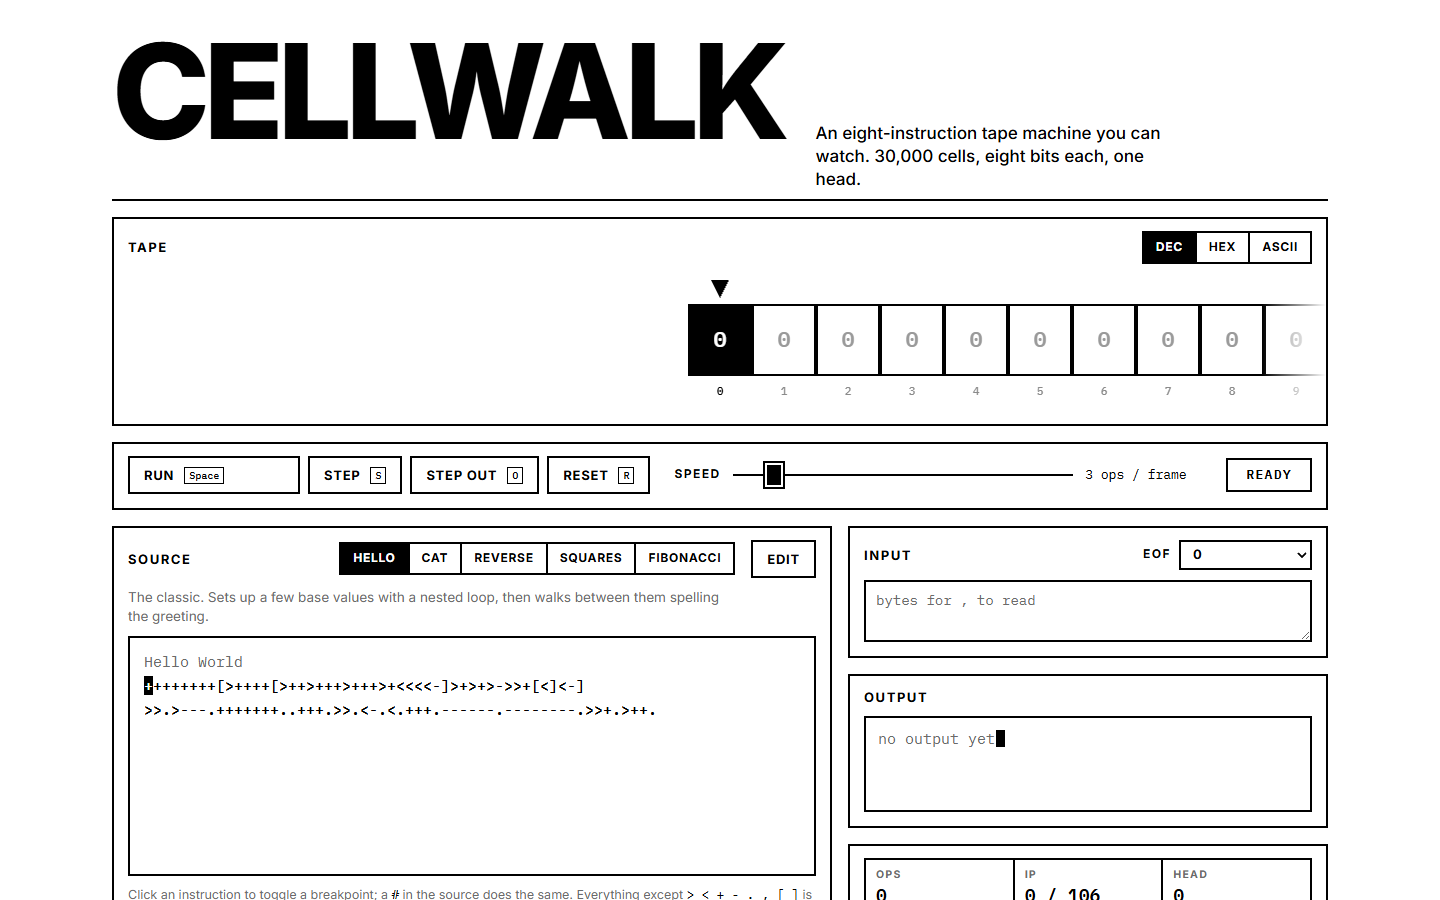
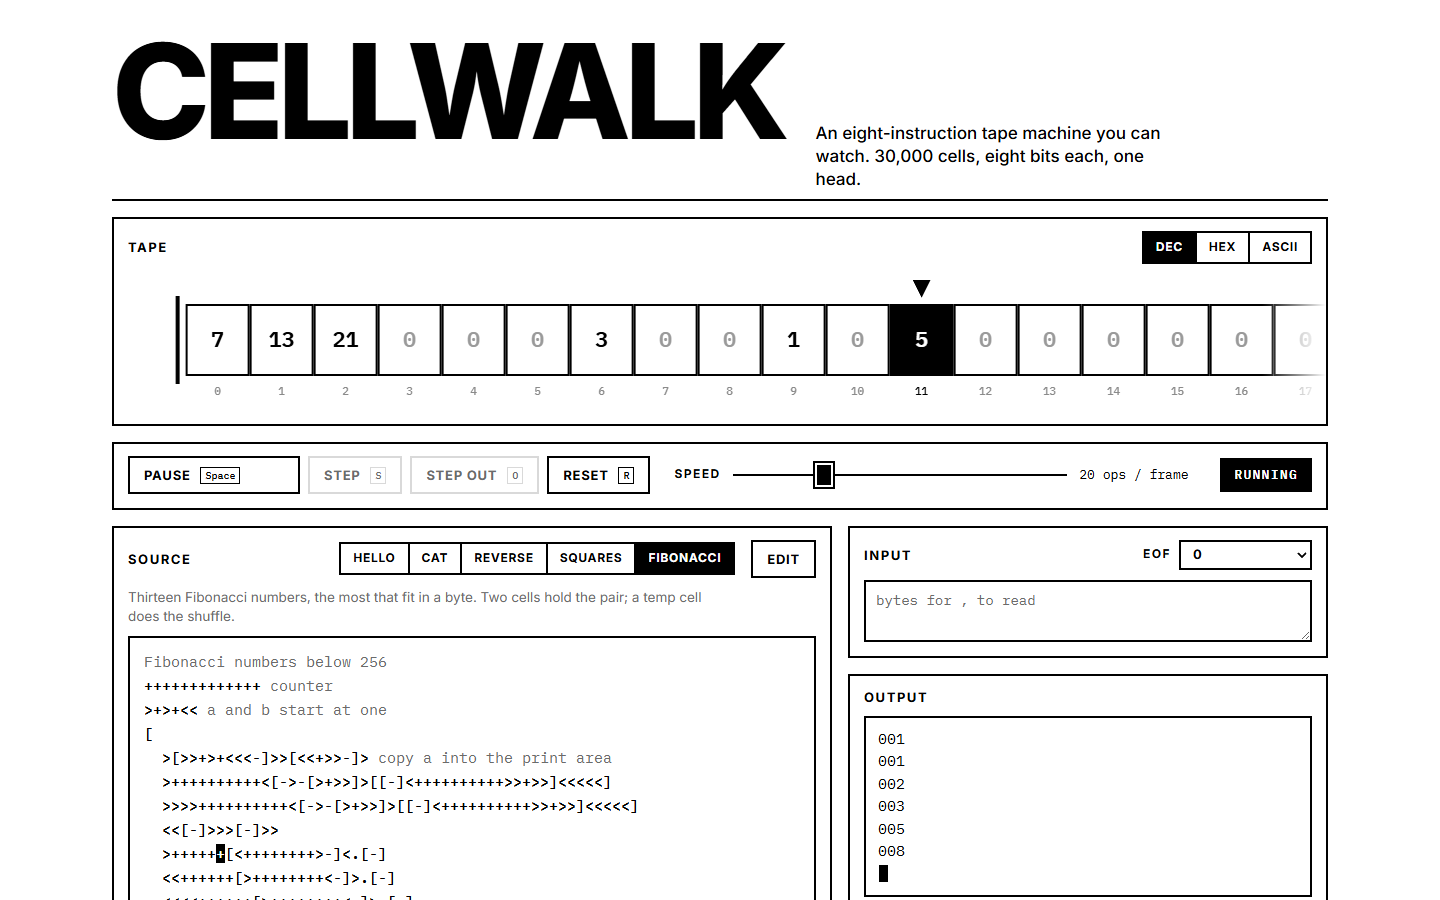
feat: shareable URL state and tape boundary bars
?p=<gallery id>&speed=<0..100>&run selects a program, sets the slider
and starts execution on load. Heavy bars mark cell 0 and the last cell
so the tape visibly ends. Formatter and speed-curve unit tests.

diff --git a/src/ui/format.test.ts b/src/ui/format.test.ts
@@ -1,0 +1,36 @@
+import { describe, expect, it } from 'vitest'
+import { formatCell, formatOps, sliderToOps } from './format.ts'
+
+describe('formatCell', () => {
+  it('decimal is the plain number', () => {
+    expect(formatCell(0, 'dec')).toBe('0')
+    expect(formatCell(255, 'dec')).toBe('255')
+  })
+  it('hex is two upper-case digits', () => {
+    expect(formatCell(10, 'hex')).toBe('0A')
+    expect(formatCell(255, 'hex')).toBe('FF')
+  })
+  it('ascii shows printable characters and names for common controls', () => {
+    expect(formatCell(72, 'ascii')).toBe('H')
+    expect(formatCell(10, 'ascii')).toBe('LF')
+    expect(formatCell(0, 'ascii')).toBe('NUL')
+    expect(formatCell(32, 'ascii')).toBe('SP')
+    expect(formatCell(200, 'ascii')).toBe('·')
+  })
+})
+
+describe('speed', () => {
+  it('maps the slider onto 1..100k ops per frame on a log scale', () => {
+    expect(sliderToOps(0)).toBe(1)
+    expect(sliderToOps(20)).toBe(10)
+    expect(sliderToOps(60)).toBe(1000)
+    expect(sliderToOps(100)).toBe(100_000)
+  })
+  it('formats op counts compactly', () => {
+    expect(formatOps(3)).toBe('3')
+    expect(formatOps(1000)).toBe('1k')
+    expect(formatOps(1259)).toBe('1.3k')
+    expect(formatOps(100_000)).toBe('100k')
+    expect(formatOps(2_500_000)).toBe('2.5M')
+  })
+})

diff --git a/src/ui/tape-canvas.ts b/src/ui/tape-canvas.ts
@@ -108,6 +108,17 @@ export class TapeCanvas {
       ctx.fillText(String(i), x + cellW / 2, CELL_TOP + CELL_H + 16)
     }
 
+    // Tape boundaries: a heavy bar just outside cell 0 and the last cell.
+    ctx.fillStyle = '#000'
+    if (first <= 0) {
+      const x0 = cx + (0 - this.headX) * cellW - cellW / 2
+      ctx.fillRect(x0 - 10, CELL_TOP - 8, 4, CELL_H + 16)
+    }
+    if (last >= size - 1) {
+      const xEnd = cx + (size - 1 - this.headX) * cellW + cellW / 2
+      ctx.fillRect(xEnd + 6, CELL_TOP - 8, 4, CELL_H + 16)
+    }
+
     // Head marker: a triangle above the real head cell.
     const hx = cx + (m.ptr - this.headX) * cellW
     ctx.fillStyle = '#000'

diff --git a/src/main.ts b/src/main.ts
@@ -392,6 +392,14 @@ function frame(): void {
   requestAnimationFrame(frame)
 }
 
-loadGallery('hello')
+// ---------- boot: ?p=<gallery id>&speed=<0..100>&run ----------
+
+const params = new URLSearchParams(location.search)
+const speedParam = Number(params.get('speed'))
+if (params.has('speed') && Number.isFinite(speedParam)) {
+  els.speed.value = String(Math.min(100, Math.max(0, Math.round(speedParam))))
+}
 els.speed.dispatchEvent(new Event('input'))
+loadGallery(GALLERY.some((g) => g.id === params.get('p')) ? params.get('p')! : 'hello')
+if (params.has('run')) toggleRun()
 requestAnimationFrame(frame)
